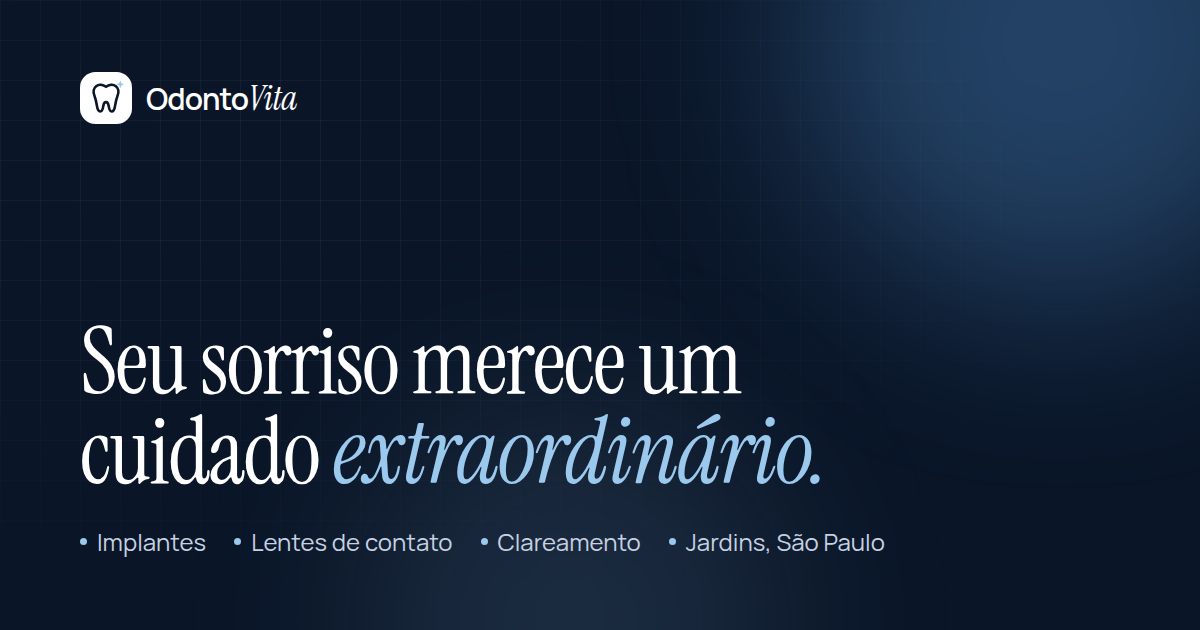
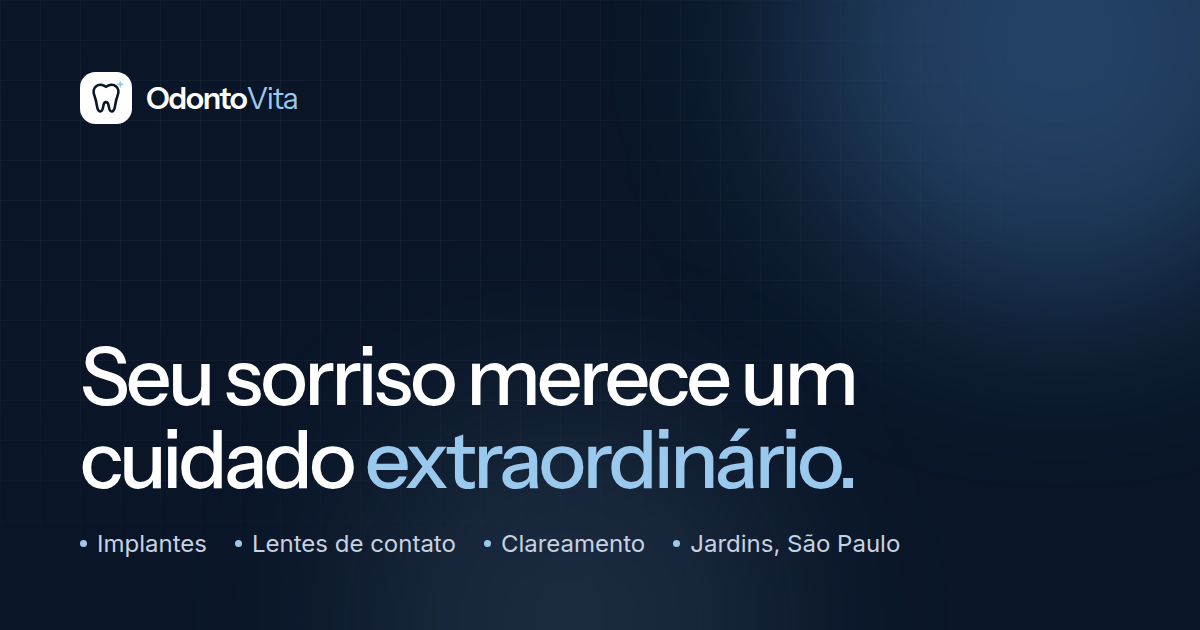
Rework OdontoVita typography with professional, non-script fonts
Replace Instrument Serif, Cormorant Garamond, Manrope and DM Mono with
Instrument Sans (headings), Inter (text and UI), Source Serif 4 (quotes,
upright) and IBM Plex Mono (labels and data). Remove every italic: heading
highlights now use color only, quotes and the marquee are upright, and the
logo wordmark is set in two weights. Sizes, weights and tracking are
recalibrated for the wider grotesque, and the Open Graph image is
regenerated with the new type.

Claude-Session: https://claude.ai/code/session_01PzKumHUkgKvUvrTJvJmigY

Changed region(s): [[0.0617, 0.5127, 0.7092, 0.7841], [0.0617, 0.8444, 0.7708, 0.8746], [0.1233, 0.1206, 0.2467, 0.181]]

diff --git a/odontovita/src/index.css b/odontovita/src/index.css
@@ -1,19 +1,19 @@
 @import 'tailwindcss';
-@import '@fontsource/instrument-serif/400.css';
-@import '@fontsource/instrument-serif/400-italic.css';
-@import '@fontsource-variable/manrope/wght.css';
-@import '@fontsource/cormorant-garamond/500.css';
-@import '@fontsource/cormorant-garamond/500-italic.css';
-@import '@fontsource/dm-mono/400.css';
-@import '@fontsource/dm-mono/500.css';
+@import '@fontsource-variable/instrument-sans/wght.css';
+@import '@fontsource-variable/inter/opsz.css';
+@import '@fontsource-variable/source-serif-4/opsz.css';
+@import '@fontsource/ibm-plex-mono/400.css';
+@import '@fontsource/ibm-plex-mono/500.css';
 
 @theme {
-  --font-sans: 'Manrope Variable', ui-sans-serif, system-ui, -apple-system, 'Segoe UI', sans-serif;
-  --font-serif: 'Instrument Serif', ui-serif, Georgia, 'Times New Roman', serif;
-  /* Serifa editorial: citações, depoimentos e destaques em itálico */
-  --font-editorial: 'Cormorant Garamond', ui-serif, Georgia, serif;
-  /* Monoespaçada: etiquetas, dados técnicos e números de referência */
-  --font-mono: 'DM Mono', ui-monospace, 'SFMono-Regular', Menlo, monospace;
+  /* Texto e interface */
+  --font-sans: 'Inter Variable', ui-sans-serif, system-ui, -apple-system, 'Segoe UI', sans-serif;
+  /* Títulos e números de destaque */
+  --font-display: 'Instrument Sans Variable', 'Inter Variable', ui-sans-serif, system-ui, sans-serif;
+  /* Citações e depoimentos (sempre em estilo reto) */
+  --font-serif: 'Source Serif 4 Variable', ui-serif, Georgia, 'Times New Roman', serif;
+  /* Etiquetas, dados técnicos e números de referência */
+  --font-mono: 'IBM Plex Mono', ui-monospace, 'SFMono-Regular', Menlo, monospace;
 
   /* Azul-marinho: base institucional, texto e superfícies escuras */
   --color-navy-50: #f2f5f9;
@@ -135,6 +135,11 @@
 
   p {
     text-wrap: pretty;
+  }
+
+  /* Destaques nos títulos usam só a cor, sem itálico */
+  :is(h1, h2, h3) em {
+    font-style: normal;
   }
 
   ::selection {

diff --git a/odontovita/src/sections/About.tsx b/odontovita/src/sections/About.tsx
@@ -33,7 +33,7 @@ export function About() {
           </div>
 
           <div className="grain parallax absolute -right-3 -bottom-10 w-48 [--parallax:-28px] rounded-[1.5rem] bg-navy-950 p-5 text-white shadow-elevated sm:-right-8 sm:w-64 sm:p-7">
-            <p className="font-serif text-5xl leading-none tracking-[-0.02em] sm:text-6xl">{clinic.foundedYear}</p>
+            <p className="font-display text-[2.75rem] leading-none font-medium tracking-[-0.05em] sm:text-[3.5rem]">{clinic.foundedYear}</p>
             <p className="mt-3 text-[0.8125rem] leading-relaxed text-navy-200 sm:text-sm">
               Mais de uma década transformando sorrisos nos Jardins, em São Paulo.
             </p>
@@ -63,7 +63,7 @@ export function About() {
 
           <Reveal delay={160}>
             <figure className="mt-9 border-l-2 border-accent-300 pl-6">
-              <blockquote className="font-editorial text-[1.75rem] leading-snug font-medium text-navy-950 italic">
+              <blockquote className="font-serif text-[1.375rem] leading-[1.5] text-navy-950">
                 <p>“Tratar um sorriso é cuidar de uma pessoa por inteiro: da saúde à autoestima.”</p>
               </blockquote>
               <figcaption className="mt-3 text-sm text-muted">
@@ -76,7 +76,7 @@ export function About() {
             <ol className="mt-10 grid grid-cols-2 gap-x-6 gap-y-7 border-t border-line pt-8 sm:grid-cols-4">
               {milestones.map((milestone) => (
                 <li key={milestone.year}>
-                  <p className="font-serif text-[1.75rem] leading-none text-navy-950">{milestone.year}</p>
+                  <p className="font-display text-[1.5rem] leading-none font-medium tracking-[-0.04em] text-navy-950">{milestone.year}</p>
                   <p className="mt-2 text-sm leading-snug text-muted">{milestone.text}</p>
                 </li>
               ))}

diff --git a/odontovita/src/sections/Testimonials.tsx b/odontovita/src/sections/Testimonials.tsx
@@ -38,8 +38,8 @@ function TestimonialCard({ testimonial, index, featured = false }: TestimonialCa
           'relative mt-6',
           featured && 'mb-8',
           featured
-            ? 'font-editorial text-[1.75rem] leading-snug font-medium text-white italic sm:text-[2rem]'
-            : 'font-editorial text-[1.375rem] leading-snug font-medium text-navy-900',
+            ? 'font-serif text-[1.375rem] leading-[1.5] text-white sm:text-[1.5rem]'
+            : 'font-serif text-[1.125rem] leading-[1.6] text-navy-900',
         )}
       >
         <p>“{testimonial.quote}”</p>
@@ -77,7 +77,7 @@ export function Testimonials() {
           />
           <Reveal delay={120} className="shrink-0">
             <div className="inline-flex items-center gap-5 rounded-[1.25rem] bg-white py-4 pr-6 pl-5 shadow-soft ring-1 ring-line ring-inset">
-              <p className="font-serif text-5xl leading-none text-navy-950">{clinic.rating.score.toLocaleString('pt-BR')}</p>
+              <p className="font-display text-[2.75rem] leading-none font-medium tracking-[-0.04em] text-navy-950">{clinic.rating.score.toLocaleString('pt-BR')}</p>
               <div>
                 <StarRating rating={clinic.rating.score} className="text-accent-500" />
                 <p className="mt-1.5 text-sm text-muted">

diff --git a/odontovita/src/components/booking/BookingDialog.tsx b/odontovita/src/components/booking/BookingDialog.tsx
@@ -80,7 +80,7 @@ export function BookingDialog({ open, onClose, children }: BookingDialogProps) {
         >
           <div aria-hidden="true" className="absolute -top-24 -right-24 size-64 rounded-full bg-accent-500/25 blur-3xl" />
           <Logo tone="light" />
-          <p className="mt-10 font-serif text-[1.75rem] leading-[1.1] text-white">
+          <p className="mt-10 font-display text-[1.5rem] leading-[1.2] font-medium tracking-[-0.03em] text-white">
             Seu novo sorriso começa com uma conversa.
           </p>
           <ol className="mt-8 space-y-5">
@@ -115,7 +115,7 @@ export function BookingDialog({ open, onClose, children }: BookingDialogProps) {
           <div aria-hidden="true" className="mx-auto mt-3 h-1 w-10 shrink-0 rounded-full bg-navy-950/15 md:hidden" />
           <header className="flex shrink-0 items-start justify-between gap-4 border-b border-line px-6 pt-4 pb-5 sm:px-8 md:pt-7">
             <div>
-              <h2 id={titleId} className="font-serif text-[2rem] leading-tight">
+              <h2 id={titleId} className="font-display text-[1.625rem] leading-tight font-semibold tracking-[-0.03em]">
                 Agendar consulta
               </h2>
               <p id={descriptionId} className="mt-1 text-sm text-muted">

diff --git a/odontovita/src/sections/HeroVisual.tsx b/odontovita/src/sections/HeroVisual.tsx
@@ -60,7 +60,7 @@ export function HeroVisual() {
             {metrics.map((metric) => (
               <div key={metric.label}>
                 <dt className="font-mono text-[0.6875rem] font-medium tracking-[0.06em] uppercase text-navy-300">{metric.label}</dt>
-                <dd className="mt-1 font-serif text-2xl leading-none text-white sm:text-[1.75rem]">{metric.value}</dd>
+                <dd className="mt-1.5 font-display text-xl leading-none font-medium tracking-[-0.03em] text-white sm:text-2xl">{metric.value}</dd>
               </div>
             ))}
           </dl>
@@ -83,7 +83,7 @@ export function HeroVisual() {
       <div className="animate-float-delayed tilt-depth absolute -right-2 -bottom-16 flex sm:-bottom-10 items-center gap-3.5 rounded-2xl bg-white/95 py-3 pr-5 pl-3 shadow-card ring-1 ring-navy-950/5 backdrop-blur sm:-right-8">
         <div className="flex -space-x-2.5">
           {['Camila Andrade', 'Ricardo Menezes', 'Juliana Prado'].map((name, index) => (
-            <Monogram key={name} name={name} index={index} className="size-9 text-sm ring-2 ring-white" />
+            <Monogram key={name} name={name} index={index} className="size-9 text-[0.6875rem] ring-2 ring-white" />
           ))}
         </div>
         <div>

diff --git a/odontovita/src/sections/Results.tsx b/odontovita/src/sections/Results.tsx
@@ -184,7 +184,7 @@ export function Results() {
           <Reveal delay={120} className="lg:col-span-5">
             <div key={active.id} className="enter">
               <p className="text-sm font-semibold text-accent-700">{active.patient}</p>
-              <h3 className="mt-2 font-serif text-[2rem] leading-tight sm:text-[2.25rem]">{active.title}</h3>
+              <h3 className="mt-2 font-display text-[1.75rem] leading-[1.15] font-medium tracking-[-0.035em] sm:text-[2rem]">{active.title}</h3>
               <p className="mt-4 text-[1.0625rem] leading-relaxed text-body">{active.summary}</p>
               <dl className="mt-8 grid grid-cols-3 divide-x divide-line rounded-2xl bg-ivory ring-1 ring-line ring-inset">
                 {active.facts.map((fact) => (

diff --git a/odontovita/src/sections/TreatmentMarquee.tsx b/odontovita/src/sections/TreatmentMarquee.tsx
@@ -13,8 +13,8 @@ export function TreatmentMarquee() {
               <span key={treatment.id} className="flex items-center">
                 <span
                   className={cn(
-                    'px-5 text-[2.25rem] leading-none tracking-[-0.015em] whitespace-nowrap sm:px-8 sm:text-5xl lg:text-6xl',
-                    index % 2 === 0 ? 'font-serif text-navy-950' : 'font-editorial font-medium text-accent-600 italic',
+                    'px-5 text-[2rem] leading-none whitespace-nowrap sm:px-8 sm:text-[2.75rem] lg:text-[3.5rem]',
+                    index % 2 === 0 ? 'font-display font-medium tracking-[-0.04em] text-navy-950' : 'font-serif font-light text-accent-600',
                   )}
                 >
                   {treatment.title}

diff --git a/odontovita/src/components/illustrations/PortraitPlaceholder.tsx b/odontovita/src/components/illustrations/PortraitPlaceholder.tsx
@@ -22,7 +22,7 @@ export function PortraitPlaceholder({ name, index = 0, className }: PortraitPlac
     >
       <div className="absolute inset-x-[18%] top-[16%] bottom-0 rounded-t-full border border-navy-950/[0.07] bg-white/45" />
       <div className="absolute inset-x-[26%] top-[24%] bottom-0 rounded-t-full border border-navy-950/[0.05]" />
-      <span className="absolute inset-0 flex items-center justify-center pt-[12%] font-serif text-[clamp(3.5rem,9vw,5.5rem)] leading-none text-navy-800/80">
+      <span className="absolute inset-0 flex items-center justify-center pt-[12%] font-display text-[clamp(3rem,7vw,4.5rem)] leading-none font-medium tracking-[-0.05em] text-navy-800/80">
         {getInitials(name)}
       </span>
     </div>

diff --git a/odontovita/src/components/booking/BookingForm.tsx b/odontovita/src/components/booking/BookingForm.tsx
@@ -135,7 +135,7 @@ export function BookingForm({
           <circle cx="26" cy="26" r="24" fill="none" stroke="currentColor" strokeWidth="2" />
           <path d="m16 27 7 7 13-15" fill="none" stroke="currentColor" strokeWidth="2.5" strokeLinecap="round" strokeLinejoin="round" />
         </svg>
-        <h3 ref={successHeadingRef} tabIndex={-1} className="mt-6 font-serif text-[2rem] leading-tight focus:outline-none">
+        <h3 ref={successHeadingRef} tabIndex={-1} className="mt-6 font-display text-[1.75rem] leading-tight font-semibold tracking-[-0.03em] focus:outline-none">
           Solicitação enviada!
         </h3>
         <p className="mt-3 max-w-sm text-[0.9375rem] leading-relaxed text-body">

diff --git a/odontovita/src/components/brand/Logo.tsx b/odontovita/src/components/brand/Logo.tsx
@@ -28,12 +28,12 @@ export function Logo({ tone = 'dark', className }: LogoProps) {
       <LogoMark tone={tone} />
       <span
         className={cn(
-          'flex items-baseline text-[1.3125rem] leading-none tracking-[-0.03em]',
+          'flex items-baseline font-display text-[1.375rem] leading-none tracking-[-0.04em]',
           tone === 'dark' ? 'text-navy-950' : 'text-white',
         )}
       >
         <span className="font-semibold">Odonto</span>
-        <span className="ml-px font-serif text-[1.5rem] italic tracking-[-0.01em]">Vita</span>
+        <span className={cn('font-normal', tone === 'dark' ? 'text-accent-600' : 'text-accent-300')}>Vita</span>
       </span>
     </span>
   )

diff --git a/odontovita/src/components/layout/MobileMenu.tsx b/odontovita/src/components/layout/MobileMenu.tsx
@@ -61,7 +61,7 @@ export function MobileMenu({ open, onClose, activeId }: MobileMenuProps) {
                   href={`#${item.id}`}
                   onClick={onClose}
                   aria-current={activeId === item.id ? 'location' : undefined}
-                  className="group flex items-center justify-between border-b border-line py-4 font-serif text-[2rem] leading-none text-navy-950"
+                  className="group flex items-center justify-between border-b border-line py-4 font-display text-[1.75rem] leading-none font-medium tracking-[-0.035em] text-navy-950"
                 >
                   <span className="flex items-center gap-3">
                     {item.label}

diff --git a/odontovita/src/sections/FinalCta.tsx b/odontovita/src/sections/FinalCta.tsx
@@ -91,7 +91,7 @@ export function FinalCta() {
 
             <Reveal delay={120} className="lg:col-span-7">
               <div className="rounded-[1.5rem] bg-white p-6 shadow-elevated sm:p-8 lg:p-10">
-                <h3 className="font-serif text-[1.875rem] leading-tight">Solicite seu horário</h3>
+                <h3 className="font-display text-[1.5rem] leading-tight font-semibold tracking-[-0.03em]">Solicite seu horário</h3>
                 <p className="mt-1 text-sm text-muted">Leva menos de um minuto. Retornamos em até {clinic.responseTime}.</p>
                 <BookingForm className="mt-7" />
               </div>
